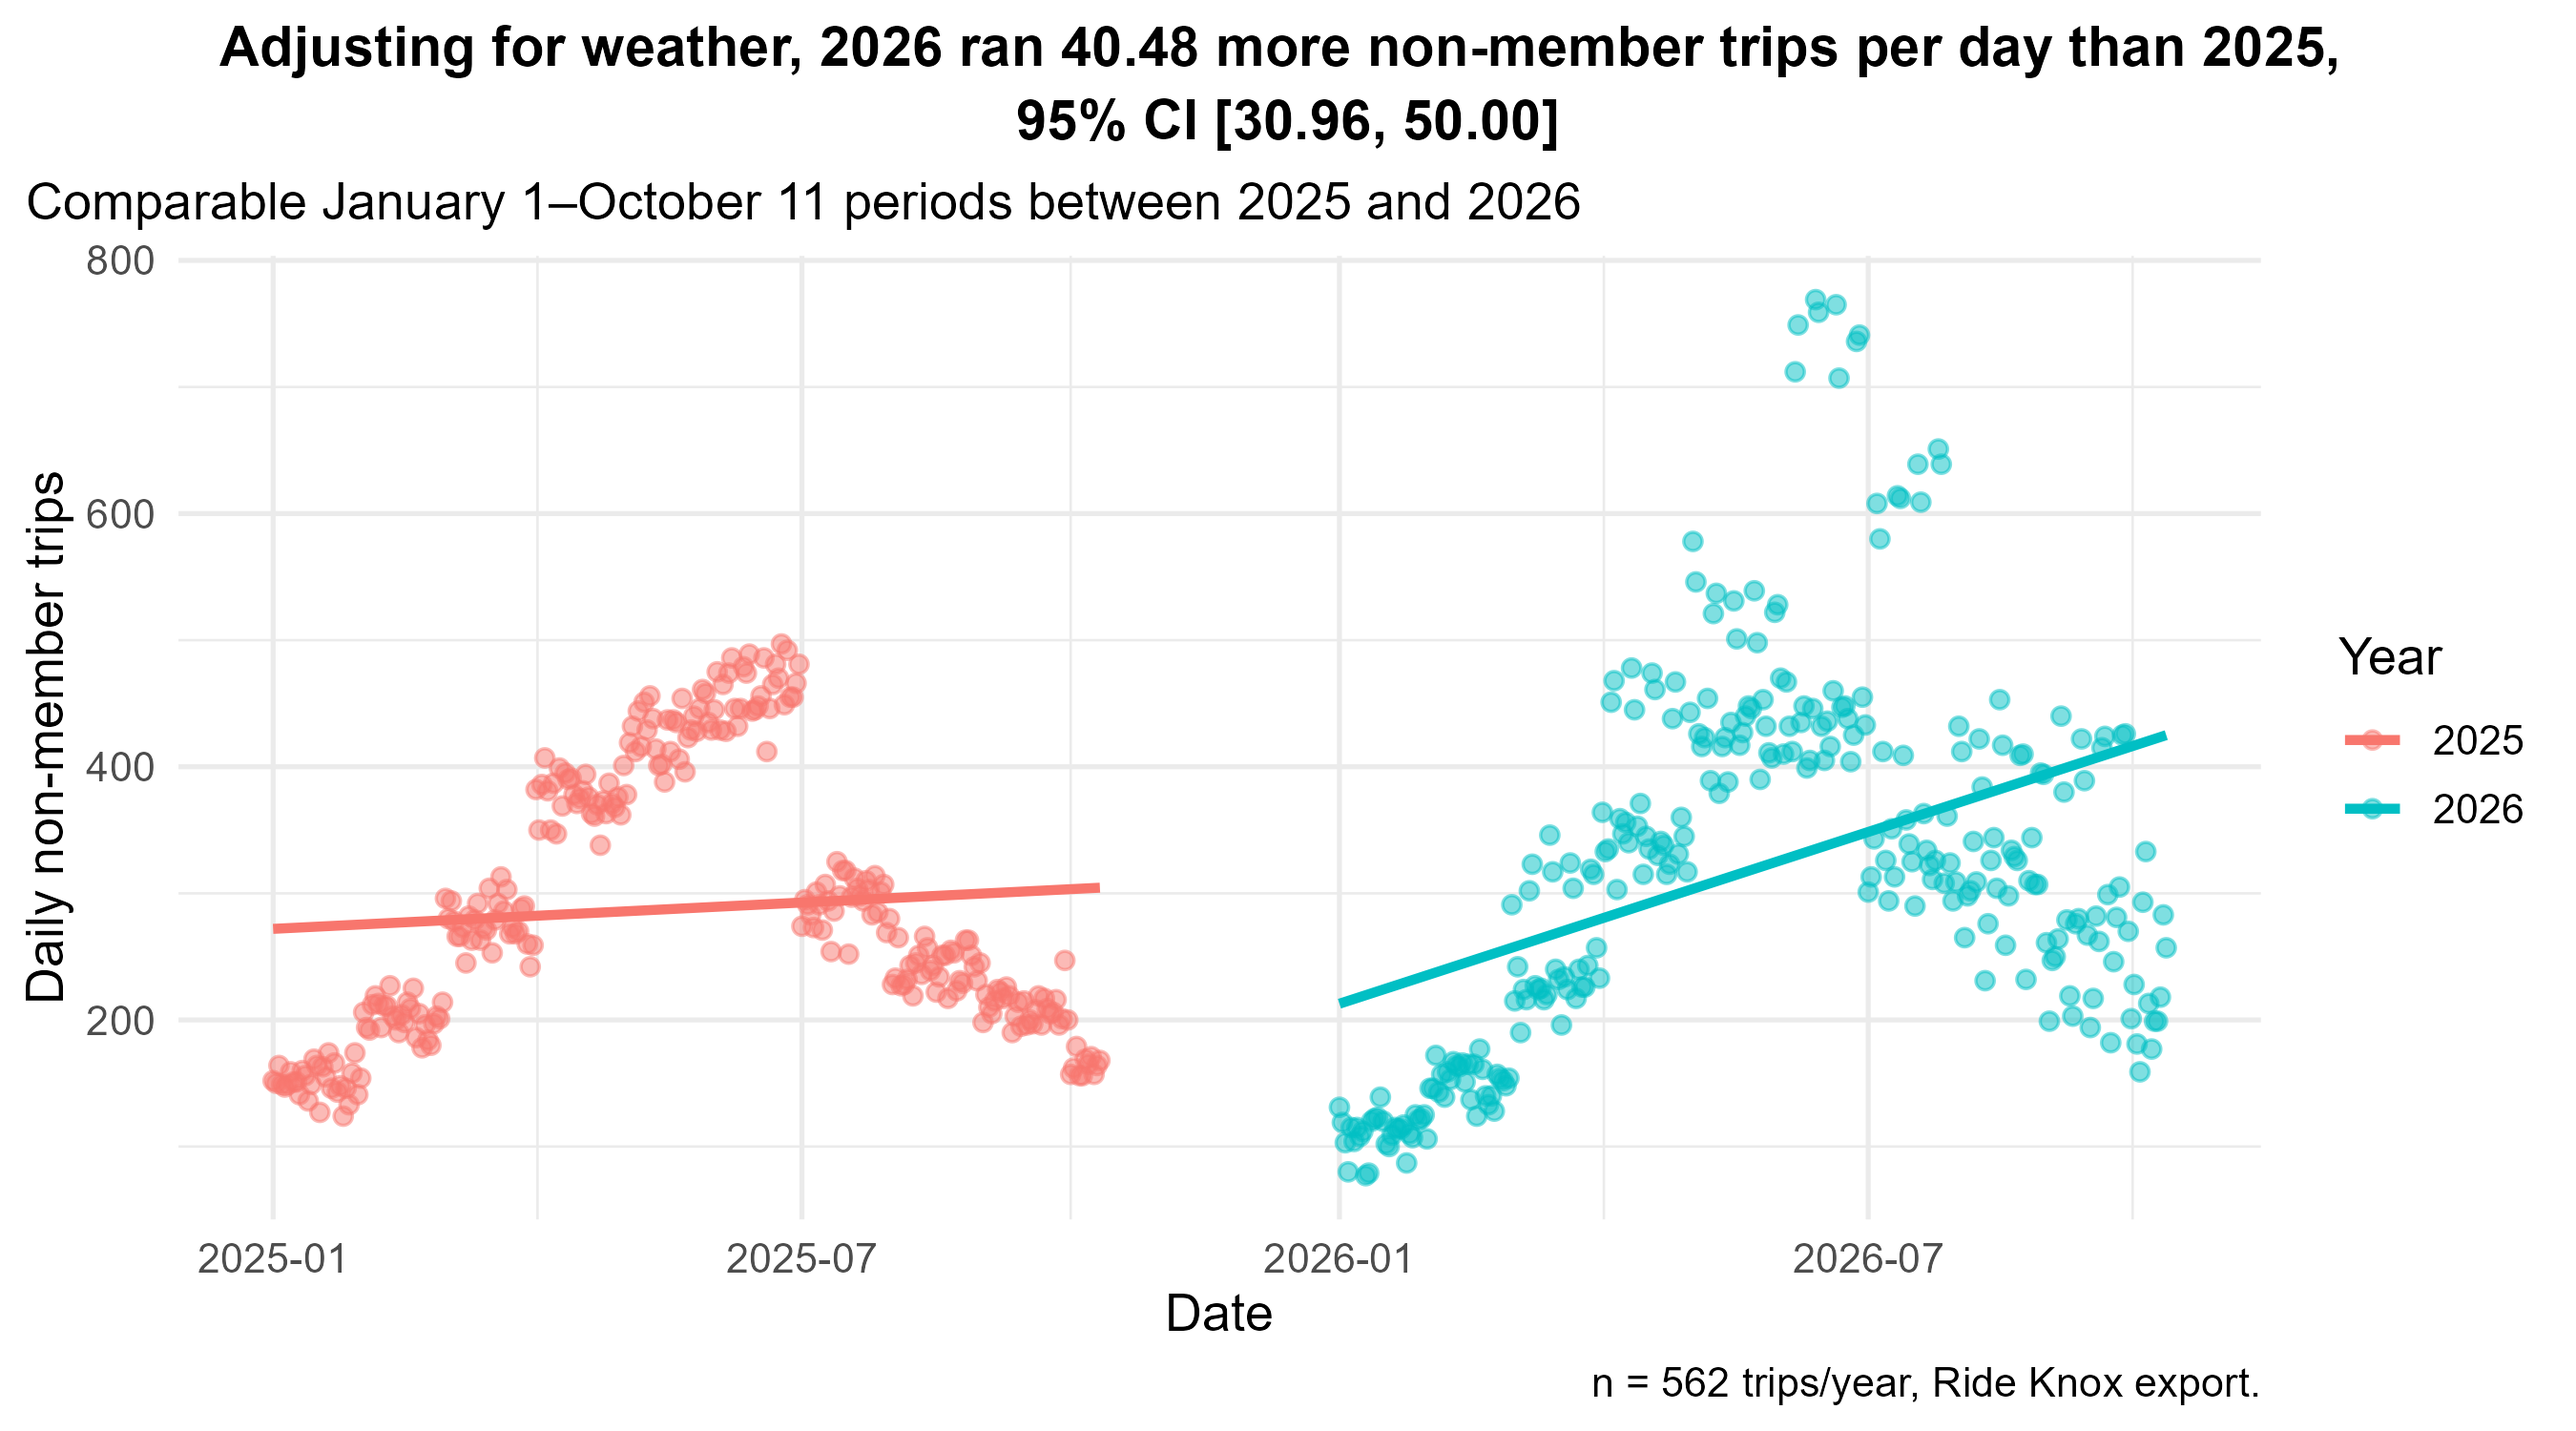
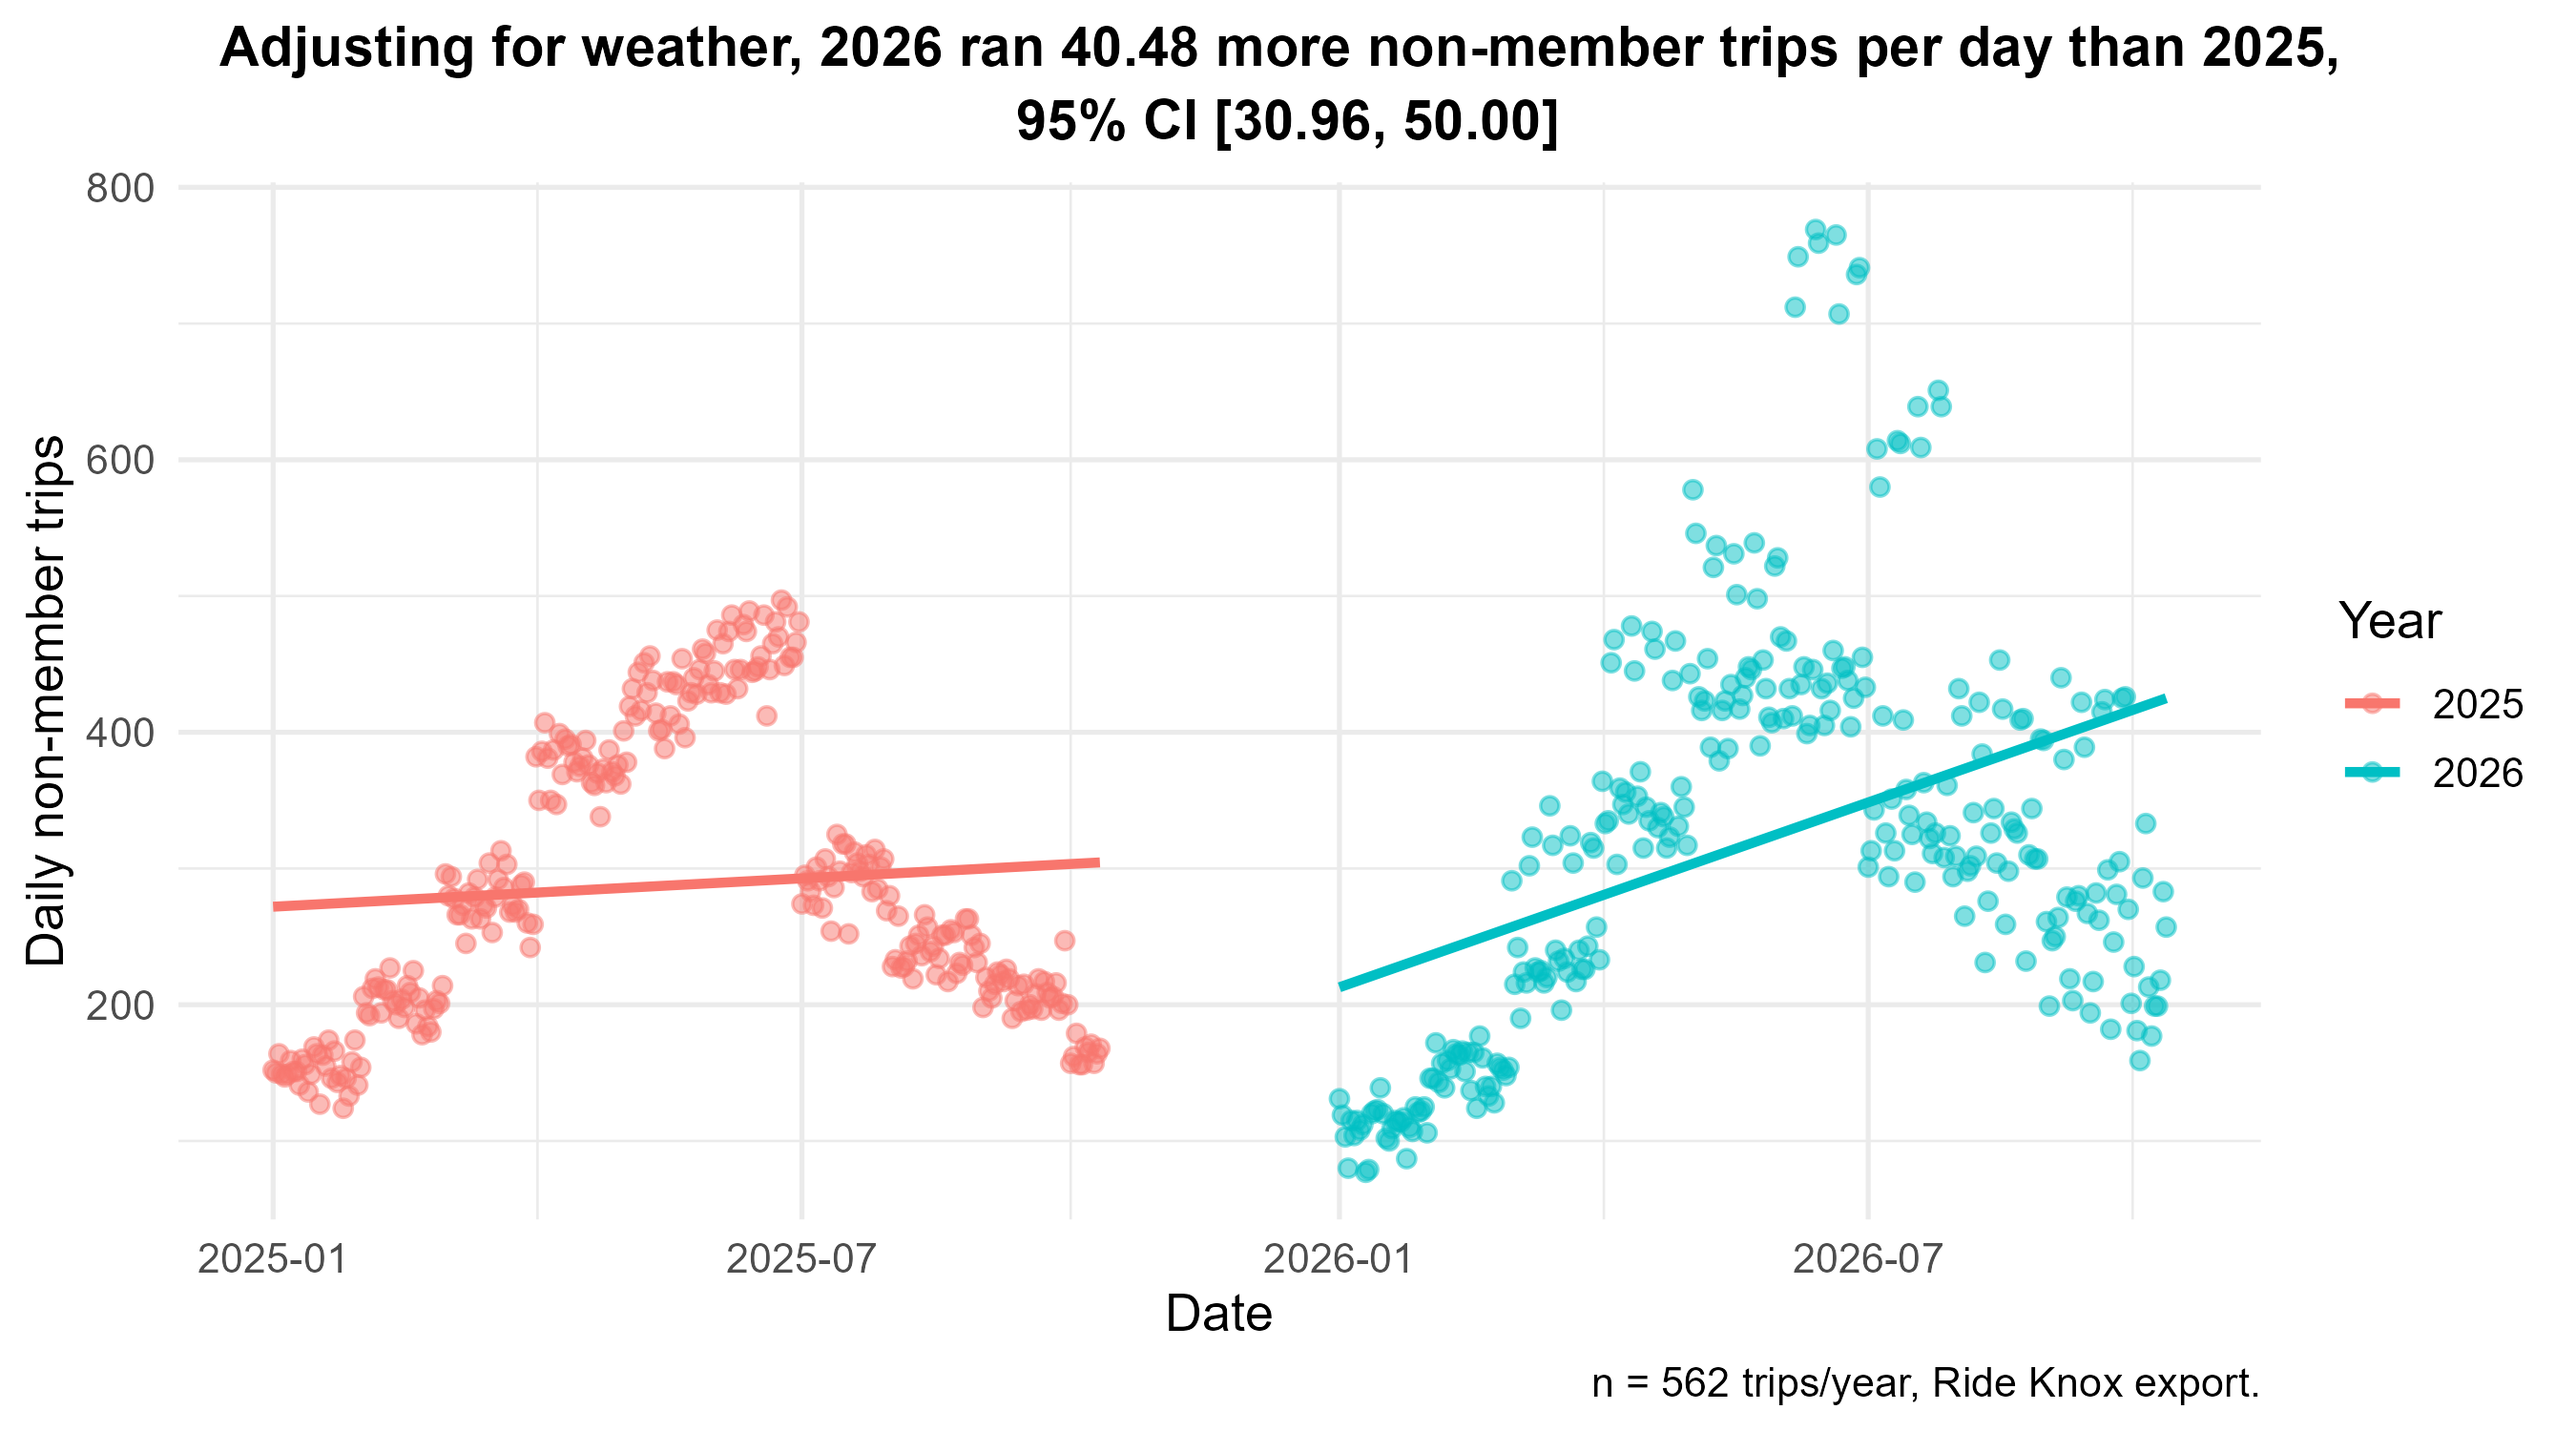
Completing Part E: Publish: site and rendered report

diff --git a/Final Project/TOOL-DEFENSE.md b/Final Project/TOOL-DEFENSE.md
@@ -1,6 +1,9 @@
-## Part A
+## Part A - The architecture and the one command 
 - build_all.sh Part 2 Exception: 
     - Based on the two quarantined files, I have decided to release October's file only because of the data team's December decision, with coverage caveats handled downstream in the report. The original September file, however, remains in quarantine because its header mismatch is not covered by this exception.
 
 - build_all.sh Part 7 Exception: 
     - The site/ directory is the publication destination intended for Pages. The pipeline copies the annual report (from report/annual_report.qmd) into site/. The landing page (site/index.md) is also in site/ and will link to the annual report.
+
+## Part E - Publish: the site and the rendered report 
+- The rendered report (self-contained HTML, figures embedded or alongside) is committed and served by your live Pages site as the one deliberate exception to the no-generated-files rule, because it is being published on the live Pages site. The results and figures will not fully be viewable by users (like auditors) unless this report is committed. This decision costs potentially revealing source code, but it has been contained by build_all.sh (making the report reproducible only through the build which has measures in place to keep secret information from getting exposed).

diff --git a/Final Project/site/index.md b/Final Project/site/index.md
@@ -1,0 +1,19 @@
+# Ride Knox: Two Years, One System
+
+<!-- STARTER SKELETON. The front page of the public site, updated for the
+     Final Project. TODO: your headline finding (the Integration Question
+     verdict, with its range), your lead figure, and working links. -->
+
+**The 2026 increase in non-member ridership (casual and day pass riders) appears to reflect a difference in demand that is not explained by weather and calendar variables alone, since the estimated increase in ridership persists and grows from 30.69 to 40.48 trips per day after controlling for those variables; however, the models cannot establish its cause.**
+
+![2026 Lead Figure](figs/integration_daily_trips.png)
+
+## Read the story
+
+- **[The 2026 Annual Report](report/annual_report.html)** — Covers the two-year comparison picture, integration question analysis, cpacity changes over the two years, and the memo to the General Manager from this report. 
+
+- To view the full 2025 report, please visit **[2025 Report](../2025_bundle/report.md)** [2025 Report]
+
+- To view the full 2026 mid-year memo, please visit **[2026 Memo](../2026_bundle/memo.md)**
+
+- To view the full README, please visit **[README](../README.md)**
